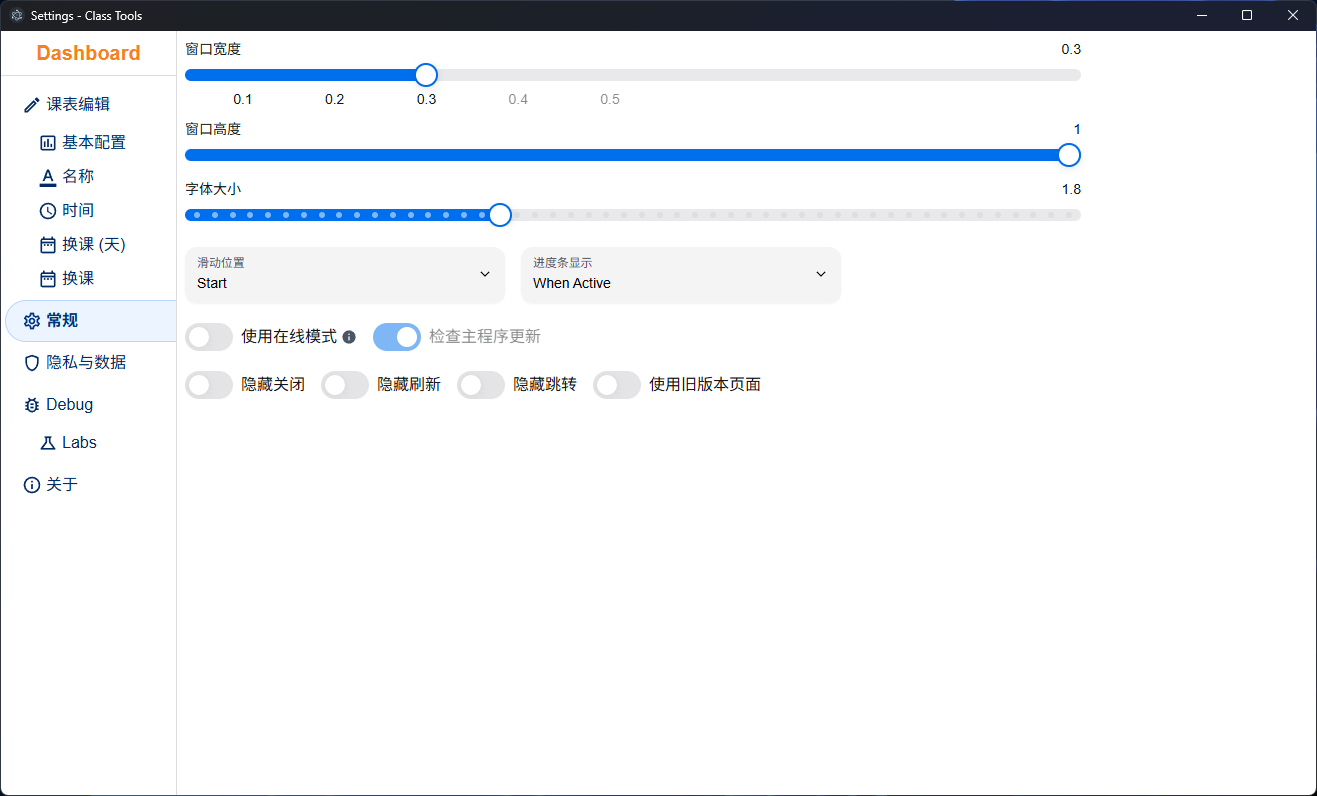
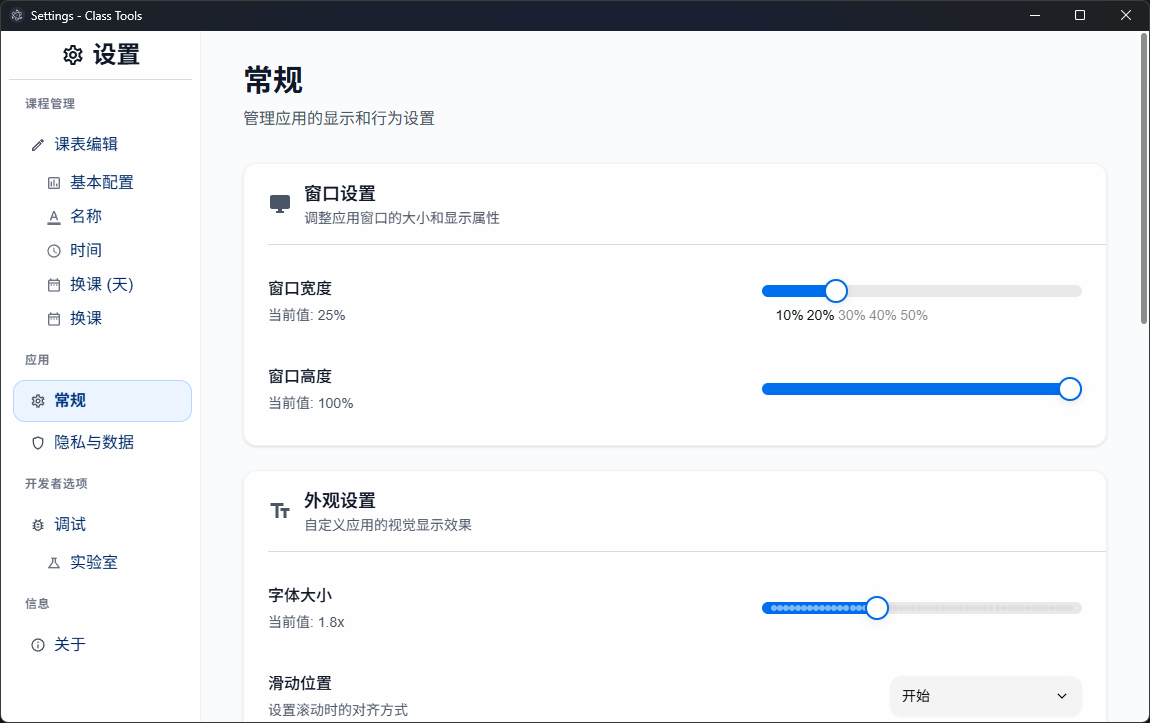
feat: add useWindowBackgroundMaterial

diff --git a/renderer/components/settings/DisplaySettings.tsx b/renderer/components/settings/DisplaySettings.tsx
@@ -70,6 +70,7 @@ export function AppearanceSettings() {
   const [fontSize, setFontSize] = useState(1.2);
   const [slidingPosition, setSlidingPosition] = useState('center');
   const [progressDisplay, setProgressDisplay] = useState('always');
+  const [useWindowBackgroundMaterial, setUseWindowBackgroundMaterial] = useState(false);
 
   useEffect(() => {
     (async () => {
@@ -81,6 +82,9 @@ export function AppearanceSettings() {
 
       const progressData = await getConfigSync('display.progressDisplay');
       progressData && setProgressDisplay(String(progressData));
+
+      const useWindowBackgroundMaterialData = await getConfigSync('display.useWindowBackgroundMaterial');
+      useWindowBackgroundMaterialData && setUseWindowBackgroundMaterial(useWindowBackgroundMaterialData);
     })();
   }, []);
 
@@ -101,7 +105,6 @@ export function AppearanceSettings() {
           />
         </div>
       </SettingsItem>
-
       <SettingsItem title='滑动位置' description='设置滚动时的对齐方式'>
         <Autocomplete
           className='w-48'
@@ -119,7 +122,6 @@ export function AppearanceSettings() {
           {item => <AutocompleteItem key={item.value}>{item.label}</AutocompleteItem>}
         </Autocomplete>
       </SettingsItem>
-
       <SettingsItem title='进度条显示' description='设置进度条的显示时机'>
         <Autocomplete
           className='w-48'
@@ -135,6 +137,19 @@ export function AppearanceSettings() {
           ]}>
           {item => <AutocompleteItem key={item.value}>{item.label}</AutocompleteItem>}
         </Autocomplete>
+      </SettingsItem>
+      <SettingsItem
+        title='使用窗口级背景模糊'
+        description={
+          <div className='flex items-center gap-2'>{`在 Windows 11 22H2 及更高版本中，窗口可使用亚克力背景`}</div>
+        }>
+        <Switch
+          isSelected={useWindowBackgroundMaterial}
+          onChange={() => {
+            setUseWindowBackgroundMaterial(!useWindowBackgroundMaterial);
+            window.ipc?.send('set-config', 'display.useWindowBackgroundMaterial', !useWindowBackgroundMaterial);
+          }}
+        />
       </SettingsItem>
     </SettingsGroup>
   );

diff --git a/renderer/components/settings/AboutSettings.tsx b/renderer/components/settings/AboutSettings.tsx
@@ -64,7 +64,7 @@ export function AboutSettings() {
         </div>
       </SettingsItem>
 
-      <SettingsItem title='检查更新' description='检查是否有可用的更新'>
+      {/* <SettingsItem title='检查更新' description='检查是否有可用的更新'>
         <Button
           color='primary'
           variant='flat'
@@ -75,22 +75,14 @@ export function AboutSettings() {
           }}>
           检查更新
         </Button>
-      </SettingsItem>
+      </SettingsItem> */}
 
       <div className='bg-gray-50 border border-gray-200 rounded-lg p-4 mt-4'>
         <h4 className='font-medium text-gray-900 mb-2'>技术信息</h4>
         <div className='grid grid-cols-2 gap-4 text-sm'>
           <div>
-            <span className='text-gray-600'>框架:</span>
-            <span className='ml-2 font-mono'>Next.js + Electron</span>
-          </div>
-          <div>
-            <span className='text-gray-600'>UI库:</span>
-            <span className='ml-2 font-mono'>HeroUI</span>
-          </div>
-          <div>
-            <span className='text-gray-600'>语言:</span>
-            <span className='ml-2 font-mono'>TypeScript</span>
+            <span className='text-gray-600'>开源:</span>
+            <span className='ml-2 font-mono'>https://github.com/lukashe0908-s/ClassTools</span>
           </div>
           <div>
             <span className='text-gray-600'>许可证:</span>

diff --git a/renderer/components/settings/SettingsGroup.tsx b/renderer/components/settings/SettingsGroup.tsx
@@ -16,8 +16,8 @@ export function SettingsGroup({ title, description, children, icon }: SettingsGr
         <div className='flex items-center gap-3'>
           {icon && <div className='flex-shrink-0 text-gray-600'>{icon}</div>}
           <div className='flex flex-col'>
-            <h3 className='text-lg font-semibold text-gray-900'>{title}</h3>
-            {description && <p className='text-sm text-gray-600'>{description}</p>}
+            <h3 className='text-lg font-semibold text-gray-900 whitespace-pre-line'>{title}</h3>
+            {description && <p className='text-sm text-gray-600 whitespace-pre-wrap'>{description}</p>}
           </div>
         </div>
       </CardHeader>
@@ -40,8 +40,8 @@ export function SettingsItem({ title, description, children, disabled = false }:
   return (
     <div className={`flex items-center justify-between py-3 ${disabled ? 'opacity-50' : ''}`}>
       <div className='flex-1 pr-4'>
-        <div className='font-medium text-gray-900'>{title}</div>
-        {description && <div className='text-sm text-gray-600 mt-1'>{description}</div>}
+        <div className='font-medium text-gray-900 whitespace-pre-line'>{title}</div>
+        {description && <div className='text-sm text-gray-600 mt-1 whitespace-pre-wrap'>{description}</div>}
       </div>
       <div className='flex-shrink-0'>{children}</div>
     </div>

diff --git a/main/background.ts b/main/background.ts
@@ -95,14 +95,19 @@ function isWindows11() {
     return base;
   })();
 
+  const usebackgroundMaterial = (() => {
+    if (!isWindows11()) return false;
+    if (store.get('display.useWindowBackgroundMaterial') !== true) return false;
+    return true;
+  })();
+
   const mainWindow = new BrowserWindow({
     webPreferences: {
       preload: path.join(__dirname, 'preload.js'),
       webSecurity: false,
     },
-    backgroundMaterial: isProd ? 'acrylic' : 'acrylic',
+    backgroundMaterial: usebackgroundMaterial ? 'acrylic' : 'auto',
     roundedCorners: true,
-    // transparent: true,
     frame: false,
     width: mainWindowWidth,
     height: mainWindowHeight,

diff --git a/renderer/components/settings/PrivacySettings.tsx b/renderer/components/settings/PrivacySettings.tsx
@@ -21,9 +21,10 @@ export function DataPrivacySettings() {
         </p>
       </div>
 
-      <SettingsItem title='Remote Overlay' description='允许远程覆盖功能' disabled>
+      {/* TODO: Remote control */}
+      {/* <SettingsItem title='Remote Overlay' description='允许远程覆盖功能' disabled>
         <Switch isDisabled isSelected={remoteOverlay} />
-      </SettingsItem>
+      </SettingsItem> */}
 
       <SettingsItem title='配置云端备份' description='启用配置文件的云端备份功能'>
         <Switch isSelected={cloudBackup} onChange={() => setCloudBackup(!cloudBackup)} />
